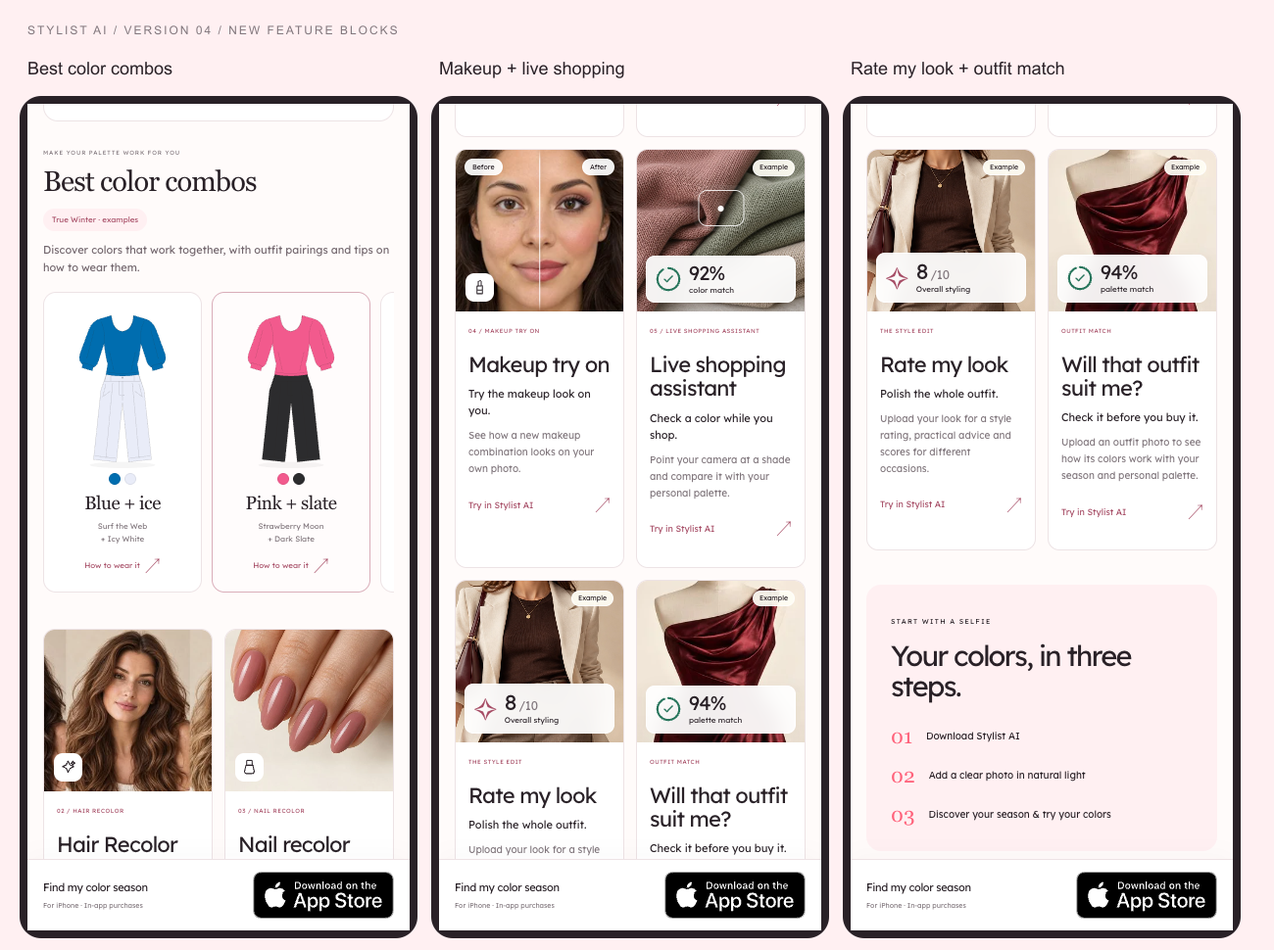
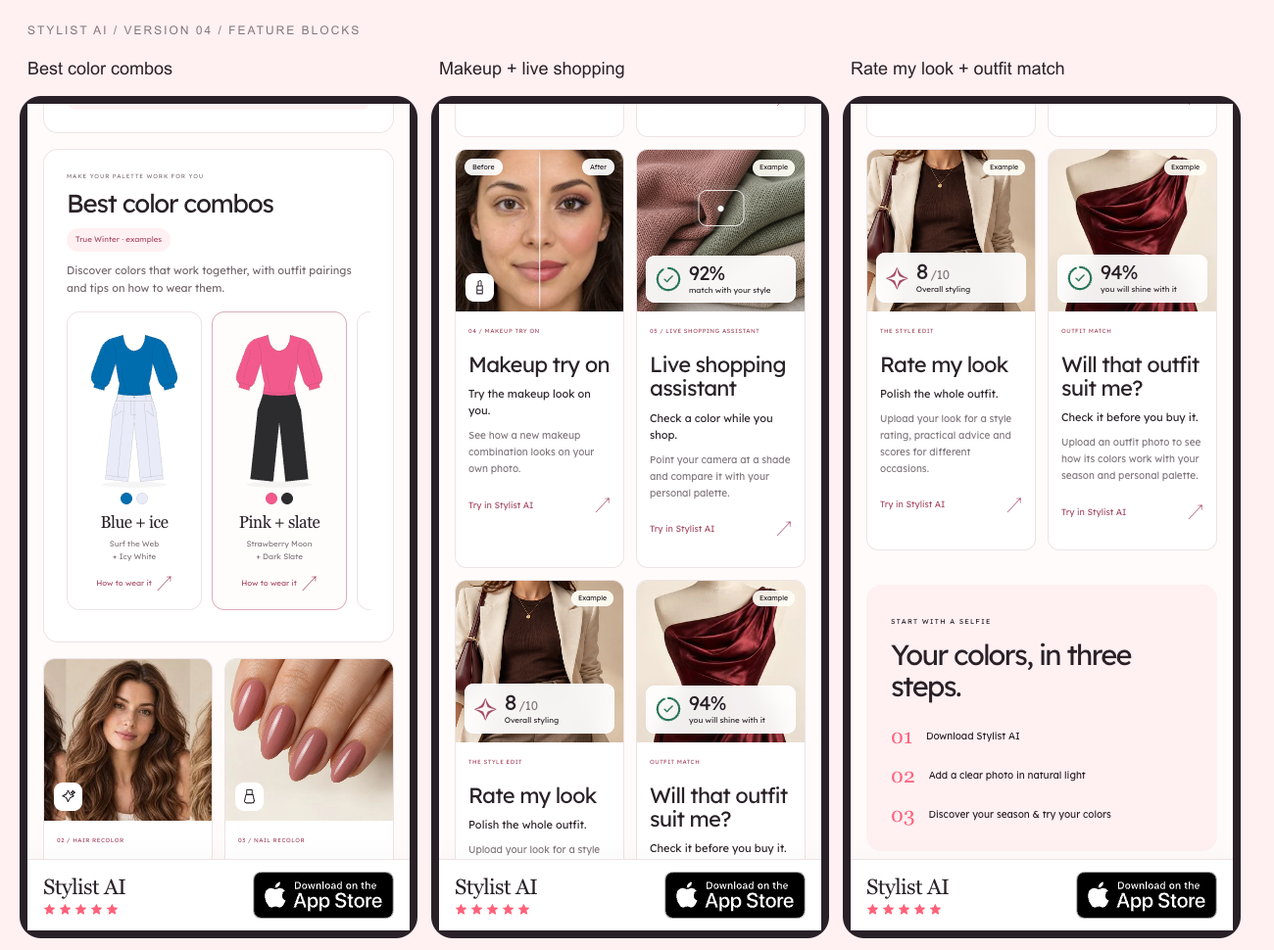
Polish feature framing, captions and the Stylist AI download bar

diff --git a/stylist_ai/landing/v2/04-season-spectrum/index.html b/stylist_ai/landing/v2/04-season-spectrum/index.html
@@ -1,6 +1,6 @@
 <!doctype html><html lang="en"><head>
-<meta charset="utf-8"><meta name="viewport" content="width=device-width,initial-scale=1,viewport-fit=cover"><meta name="theme-color" content="#FFFBFA"><title>Find your color season — Stylist AI</title><meta name="description" content="Discover your color season and palette. Try hair and makeup looks, recolor nails, and take your palette shopping with Stylist AI for iPhone."><meta property="og:title" content="Your season. Your palette. Stylist AI."><meta property="og:description" content="Your Color Analysis, color combos, beauty tools, outfit advice & live shopping. Find your colors with Stylist AI."><meta property="og:type" content="website"><meta property="og:image" content="https://bestme.mobi/stylist_ai/landing/v2/assets/social-spectrum.jpg"><link rel="icon" href="../assets/icon.png"><link rel="stylesheet" href="../styles.css?v=2"><script src="../app.js?v=3" defer></script><link rel="stylesheet" href="./spectrum.css?v=5"></head>
-<body class="spectrum" data-variant="04-season-spectrum" id="top"><a class="skip" href="#main">Skip to content</a><header class="site-header container"><a class="brand" href="#top" aria-label="Stylist AI home"><img src="../assets/icon.png" width="28" height="28" alt=""><span>stylist <b>AI</b></span></a><span class="header-caption">COLOR ANALYSIS FOR iPHONE</span></header><main id="main"><section class="hero container" aria-label="Discover your color season"><div class="hero-intro"><h1>What’s your<br><em>color season?</em></h1><p>AI color analysis. Your season, personal palette, personal shopping advice.</p></div><div class="hero-proof"><div class="result-card"><div class="spectrum-pair"><div class="color-halo"><div class="face-photo"><img class="portrait" src="../assets/winter-model.jpg" width="834" height="1482" alt="Stylist AI ad model with subtle glowing facial landmark dots" fetchpriority="high"><img class="mesh" src="../assets/winter-landmarks.svg" width="834" height="1482" alt="" aria-hidden="true"></div></div><div class="season-result"><p class="micro">EXAMPLE COLOR SEASON</p><strong data-season-result>True Winter</strong><p class="traits"><span>Cool</span><span>Clear</span><span>High contrast</span></p></div></div><div class="palette hero-palette" data-first-palette aria-label="Sample True Winter color palette"><div class="color" style="--color:#F25A8D" title="Pink"><i></i></div><div class="color" style="--color:#9C1F50" title="Berry"><i></i></div><div class="color" style="--color:#7F3C7D" title="Orchid"><i></i></div><div class="color" style="--color:#4E1C60" title="Plum"><i></i></div><div class="color" style="--color:#17A59D" title="Teal"><i></i></div><div class="color" style="--color:#3AB3D1" title="Aqua"><i></i></div><div class="color" style="--color:#3C55A5" title="Cobalt"><i></i></div><div class="color" style="--color:#003A6E" title="Navy"><i></i></div></div><div class="season-tabs" role="group" aria-label="Preview example seasonal palettes"><button type="button" data-season="spring" aria-pressed="false">Spring</button><button type="button" data-season="summer" aria-pressed="false">Summer</button><button type="button" data-season="autumn" aria-pressed="false">Autumn</button><button type="button" data-season="winter" aria-pressed="true">Winter</button></div><span class="sample-disclaimer">Example palette. Find your own colors in the app.</span></div></div></section><nav class="feature-nav container" aria-label="Stylist AI features"><a href="#passport" aria-label="See Your Color Analysis"><svg viewBox="0 0 24 24" fill="none" stroke="currentColor" stroke-width="1.5" stroke-linecap="round" stroke-linejoin="round" aria-hidden="true"><rect x="5" y="3" width="14" height="18" rx="3"/><path d="M9 8h6M9 12h6M9 16h3"/></svg><span>Your Color Analysis</span></a><a href="#try-on" aria-label="See Hair Recolor"><svg viewBox="0 0 24 24" fill="none" stroke="currentColor" stroke-width="1.5" stroke-linecap="round" stroke-linejoin="round" aria-hidden="true"><path d="m12 3 2.6 5.4L20 11l-5.4 2.6L12 19l-2.6-5.4L4 11l5.4-2.6Z"/><path d="m19 3 1 2 2 1-2 1-1 2-1-2-2-1 2-1Z"/></svg><span>Hair Recolor</span></a><a href="#nails" aria-label="See Nail recolor"><svg viewBox="0 0 24 24" fill="none" stroke="currentColor" stroke-width="1.5" stroke-linecap="round" stroke-linejoin="round" aria-hidden="true"><rect x="8" y="2" width="8" height="7" rx="1"/><path d="M7 9h10l2 9a3 3 0 0 1-3 3H8a3 3 0 0 1-3-3Z"/></svg><span>Nail recolor</span></a><a href="#makeup" aria-label="See Makeup try on"><svg viewBox="0 0 24 24" fill="none" stroke="currentColor" stroke-width="1.5" stroke-linecap="round" stroke-linejoin="round" aria-hidden="true"><path d="M8 10h8v11H8zM10 10V4c0-1 4-3 4-1v7M8 16h8"/></svg><span>Makeup try on</span></a><a href="#shopping" aria-label="See Live shopping assistant"><svg viewBox="0 0 24 24" fill="none" stroke="currentColor" stroke-width="1.5" stroke-linecap="round" stroke-linejoin="round" aria-hidden="true"><path d="M5 8h14l1 13H4ZM9 8V6a3 3 0 0 1 6 0v2"/></svg><span>Live shopping assistant</span></a></nav><nav class="feature-shortcuts container" aria-label="More styling tools"><a href="#combos" aria-label="See Color combos"><svg viewBox="0 0 24 24" fill="none" stroke="currentColor" stroke-width="1.4" stroke-linecap="round" stroke-linejoin="round" aria-hidden="true"><rect x="3" y="5" width="8" height="14" rx="2"/><rect x="13" y="5" width="8" height="14" rx="2"/></svg><span>Color combos</span></a><a href="#rate-look" aria-label="See Rate my look"><svg viewBox="0 0 24 24" fill="none" stroke="currentColor" stroke-width="1.4" stroke-linecap="round" stroke-linejoin="round" aria-hidden="true"><path d="m12 3 2.8 5.8 6.4.9-4.6 4.5 1.1 6.4-5.7-3-5.7 3 1.1-6.4-4.6-4.5 6.4-.9Z"/></svg><span>Rate my look</span></a><a href="#outfit-match" aria-label="See Outfit match"><svg viewBox="0 0 24 24" fill="none" stroke="currentColor" stroke-width="1.4" stroke-linecap="round" stroke-linejoin="round" aria-hidden="true"><path d="m8 4 4 2 4-2 6 5-4 4-2-2v10H8V11l-2 2-4-4Z"/></svg><span>Outfit match</span></a></nav><section class="features container" id="features"><div class="section-heading"><span class="micro">YOUR COLORS, IN EVERYDAY LIFE.</span><h2>See what you can do.</h2></div><article id="passport" class="passport-feature" data-feature="passport"><div class="passport-feature-copy"><p class="number">01 / YOUR COLOR ANALYSIS</p><h3>Your Color Analysis</h3><p class="benefit">Your season. Your undertone. Your palette.</p><p>Keep your color profile close, from getting ready to choosing your next outfit.</p><ul><li>Your seasonal color type</li><li>Your personal palette</li><li>Color guidance for your look</li></ul></div><div class="passport-feature-art"><span class="micro">YOUR COLOR ANALYSIS · EXAMPLE</span><strong>True Winter</strong><div class="attribute-row"><span>Cool undertone</span><span>High contrast</span></div><div class="palette " aria-label="Sample True Winter color palette"><div class="color" style="--color:#F25A8D" title="Pink"><i></i><span>Pink</span></div><div class="color" style="--color:#9C1F50" title="Berry"><i></i><span>Berry</span></div><div class="color" style="--color:#7F3C7D" title="Orchid"><i></i><span>Orchid</span></div><div class="color" style="--color:#4E1C60" title="Plum"><i></i><span>Plum</span></div><div class="color" style="--color:#17A59D" title="Teal"><i></i><span>Teal</span></div><div class="color" style="--color:#3AB3D1" title="Aqua"><i></i><span>Aqua</span></div><div class="color" style="--color:#3C55A5" title="Cobalt"><i></i><span>Cobalt</span></div><div class="color" style="--color:#003A6E" title="Navy"><i></i><span>Navy</span></div></div></div></article><section class="combo-section" id="combos" data-feature="combos" aria-labelledby="combo-title"><div class="combo-heading"><div><p class="micro">MAKE YOUR PALETTE WORK FOR YOU</p><h3 id="combo-title">Best color combos</h3></div><span class="combo-season">True Winter · examples</span></div><p class="combo-description">Discover colors that work together, with outfit pairings and tips on how to wear them.</p><div class="combo-grid"><a class="combo-card" href="https://apps.apple.com/app/id6739435502" target="_top" data-download data-placement="combo-1" aria-label="Try Blue + ice and see how to wear it in Stylist AI"><svg viewBox="0 0 180 280" class="combo-garments" aria-hidden="true">
+<meta charset="utf-8"><meta name="viewport" content="width=device-width,initial-scale=1,viewport-fit=cover"><meta name="theme-color" content="#FFFBFA"><title>Find your color season — Stylist AI</title><meta name="description" content="Discover your color season and palette. Try hair and makeup looks, recolor nails, and take your palette shopping with Stylist AI for iPhone."><meta property="og:title" content="Your season. Your palette. Stylist AI."><meta property="og:description" content="Your Color Analysis, color combos, beauty tools, outfit advice & live shopping. Find your colors with Stylist AI."><meta property="og:type" content="website"><meta property="og:image" content="https://bestme.mobi/stylist_ai/landing/v2/assets/social-spectrum.jpg"><link rel="icon" href="../assets/icon.png"><link rel="stylesheet" href="../styles.css?v=2"><script src="../app.js?v=3" defer></script><link rel="stylesheet" href="./spectrum.css?v=6"></head>
+<body class="spectrum" data-variant="04-season-spectrum" id="top"><a class="skip" href="#main">Skip to content</a><header class="site-header container"><a class="brand" href="#top" aria-label="Stylist AI home"><img src="../assets/icon.png" width="28" height="28" alt=""><span>stylist <b>AI</b></span></a><span class="header-caption">COLOR ANALYSIS FOR iPHONE</span></header><main id="main"><section class="hero container" aria-label="Discover your color season"><div class="hero-intro"><h1>What’s your<br><em>color season?</em></h1><p>AI color analysis. Your season, personal palette, personal shopping advice.</p></div><div class="hero-proof"><div class="result-card"><div class="spectrum-pair"><div class="color-halo"><div class="face-photo"><img class="portrait" src="../assets/winter-model.jpg" width="834" height="1482" alt="Stylist AI ad model with subtle glowing facial landmark dots" fetchpriority="high"><img class="mesh" src="../assets/winter-landmarks.svg" width="834" height="1482" alt="" aria-hidden="true"></div></div><div class="season-result"><p class="micro">EXAMPLE COLOR SEASON</p><strong data-season-result>True Winter</strong><p class="traits"><span>Cool</span><span>Clear</span><span>High contrast</span></p></div></div><div class="palette hero-palette" data-first-palette aria-label="Sample True Winter color palette"><div class="color" style="--color:#F25A8D" title="Pink"><i></i></div><div class="color" style="--color:#9C1F50" title="Berry"><i></i></div><div class="color" style="--color:#7F3C7D" title="Orchid"><i></i></div><div class="color" style="--color:#4E1C60" title="Plum"><i></i></div><div class="color" style="--color:#17A59D" title="Teal"><i></i></div><div class="color" style="--color:#3AB3D1" title="Aqua"><i></i></div><div class="color" style="--color:#3C55A5" title="Cobalt"><i></i></div><div class="color" style="--color:#003A6E" title="Navy"><i></i></div></div><div class="season-tabs" role="group" aria-label="Preview example seasonal palettes"><button type="button" data-season="spring" aria-pressed="false">Spring</button><button type="button" data-season="summer" aria-pressed="false">Summer</button><button type="button" data-season="autumn" aria-pressed="false">Autumn</button><button type="button" data-season="winter" aria-pressed="true">Winter</button></div><span class="sample-disclaimer">Example palette. Find your own colors in the app.</span></div></div></section><nav class="feature-nav container" aria-label="Stylist AI features"><a href="#passport" aria-label="See Your Color Analysis"><svg viewBox="0 0 24 24" fill="none" stroke="currentColor" stroke-width="1.5" stroke-linecap="round" stroke-linejoin="round" aria-hidden="true"><rect x="5" y="3" width="14" height="18" rx="3"/><path d="M9 8h6M9 12h6M9 16h3"/></svg><span>Your Color Analysis</span></a><a href="#try-on" aria-label="See Hair Recolor"><svg viewBox="0 0 24 24" fill="none" stroke="currentColor" stroke-width="1.5" stroke-linecap="round" stroke-linejoin="round" aria-hidden="true"><path d="m12 3 2.6 5.4L20 11l-5.4 2.6L12 19l-2.6-5.4L4 11l5.4-2.6Z"/><path d="m19 3 1 2 2 1-2 1-1 2-1-2-2-1 2-1Z"/></svg><span>Hair Recolor</span></a><a href="#nails" aria-label="See Nail recolor"><svg viewBox="0 0 24 24" fill="none" stroke="currentColor" stroke-width="1.5" stroke-linecap="round" stroke-linejoin="round" aria-hidden="true"><rect x="8" y="2" width="8" height="7" rx="1"/><path d="M7 9h10l2 9a3 3 0 0 1-3 3H8a3 3 0 0 1-3-3Z"/></svg><span>Nail recolor</span></a><a href="#makeup" aria-label="See Makeup try on"><svg viewBox="0 0 24 24" fill="none" stroke="currentColor" stroke-width="1.5" stroke-linecap="round" stroke-linejoin="round" aria-hidden="true"><path d="M8 10h8v11H8zM10 10V4c0-1 4-3 4-1v7M8 16h8"/></svg><span>Makeup try on</span></a><a href="#shopping" aria-label="See Live shopping assistant"><svg viewBox="0 0 24 24" fill="none" stroke="currentColor" stroke-width="1.5" stroke-linecap="round" stroke-linejoin="round" aria-hidden="true"><path d="M5 8h14l1 13H4ZM9 8V6a3 3 0 0 1 6 0v2"/></svg><span>Live shopping assistant</span></a></nav><nav class="feature-shortcuts container" aria-label="More styling tools"><a href="#combos" aria-label="See Color combos"><svg viewBox="0 0 24 24" fill="none" stroke="currentColor" stroke-width="1.4" stroke-linecap="round" stroke-linejoin="round" aria-hidden="true"><rect x="3" y="5" width="8" height="14" rx="2"/><rect x="13" y="5" width="8" height="14" rx="2"/></svg><span>Color combos</span></a><a href="#rate-look" aria-label="See Rate my look"><svg viewBox="0 0 24 24" fill="none" stroke="currentColor" stroke-width="1.4" stroke-linecap="round" stroke-linejoin="round" aria-hidden="true"><path d="m12 3 2.8 5.8 6.4.9-4.6 4.5 1.1 6.4-5.7-3-5.7 3 1.1-6.4-4.6-4.5 6.4-.9Z"/></svg><span>Rate my look</span></a><a href="#outfit-match" aria-label="See Outfit match"><svg viewBox="0 0 24 24" fill="none" stroke="currentColor" stroke-width="1.4" stroke-linecap="round" stroke-linejoin="round" aria-hidden="true"><path d="m8 4 4 2 4-2 6 5-4 4-2-2v10H8V11l-2 2-4-4Z"/></svg><span>Outfit match</span></a></nav><section class="features container" id="features"><div class="section-heading"><span class="micro">YOUR COLORS, IN EVERYDAY LIFE.</span><h2>See what you can do.</h2></div><article id="passport" class="passport-feature" data-feature="passport"><div class="passport-feature-copy"><p class="number">01 / YOUR COLOR ANALYSIS</p><h3>Your Color Analysis</h3><p class="benefit">Your season. Your undertone. Your palette.</p><p>Keep your color profile close, from getting ready to choosing your next outfit.</p><ul><li>Your seasonal color type</li><li>Your personal palette</li><li>Color guidance for your look</li></ul></div><div class="passport-feature-art"><span class="micro">YOUR COLOR ANALYSIS · EXAMPLE</span><strong>True Winter</strong><div class="attribute-row"><span>Cool undertone</span><span>High contrast</span></div><div class="palette " aria-label="Sample True Winter color palette"><div class="color" style="--color:#F25A8D" title="Pink"><i></i><span>Pink</span></div><div class="color" style="--color:#9C1F50" title="Berry"><i></i><span>Berry</span></div><div class="color" style="--color:#7F3C7D" title="Orchid"><i></i><span>Orchid</span></div><div class="color" style="--color:#4E1C60" title="Plum"><i></i><span>Plum</span></div><div class="color" style="--color:#17A59D" title="Teal"><i></i><span>Teal</span></div><div class="color" style="--color:#3AB3D1" title="Aqua"><i></i><span>Aqua</span></div><div class="color" style="--color:#3C55A5" title="Cobalt"><i></i><span>Cobalt</span></div><div class="color" style="--color:#003A6E" title="Navy"><i></i><span>Navy</span></div></div></div></article><article class="combo-section combo-feature" id="combos" data-feature="combos" aria-labelledby="combo-title"><div class="combo-heading"><div><p class="micro">MAKE YOUR PALETTE WORK FOR YOU</p><h3 id="combo-title">Best color combos</h3></div><span class="combo-season">True Winter · examples</span></div><p class="combo-description">Discover colors that work together, with outfit pairings and tips on how to wear them.</p><div class="combo-grid"><a class="combo-card" href="https://apps.apple.com/app/id6739435502" target="_top" data-download data-placement="combo-1" aria-label="Try Blue + ice and see how to wear it in Stylist AI"><svg viewBox="0 0 180 280" class="combo-garments" aria-hidden="true">
 <ellipse cx="90" cy="267" rx="53" ry="5" fill="#27231f" opacity=".045"/>
 <g fill="#E9ECF8" stroke="#27231f33" stroke-width=".8"><path d="M64 119H116Q120 131 125 145L137 258L100 262L90 165L80 262L43 258L55 145Q60 131 64 119Z"/><path d="M64 119H116L119 131H61Z"/></g>
 <path d="M63 135L58 156L70 147M117 135L122 156L110 147M90 131V162M74 134L63 256M106 134L117 256M45 252L79 256M101 256L135 252M85 131V153Q89 156 93 153M71 120V130M109 120V130" fill="none" stroke="#27231f2e" stroke-width=".8"/>
@@ -15,4 +15,4 @@
 <g fill="#4E1C60" stroke="#27231f33" stroke-width=".8"><path d="M64 119H116Q120 131 125 145L137 258L100 262L90 165L80 262L43 258L55 145Q60 131 64 119Z"/><path d="M64 119H116L119 131H61Z"/></g>
 <path d="M63 135L58 156L70 147M117 135L122 156L110 147M90 131V162M74 134L63 256M106 134L117 256M45 252L79 256M101 256L135 252M85 131V153Q89 156 93 153M71 120V130M109 120V130" fill="none" stroke="#27231f2e" stroke-width=".8"/>
 <g fill="#D6A8C8" stroke="#27231f33" stroke-width=".8"><path d="M72 24L55 29Q41 32 35 48L21 86Q17 99 27 105L40 109Q48 108 51 98L60 70Q63 94 66 103L63 120Q90 125 117 120L114 103Q117 94 120 70L129 98Q132 108 140 109L153 105Q163 99 159 86L145 48Q139 32 125 29L108 24Q106 48 90 50Q74 48 72 24Z"/><path d="M26 101L43 106L41 114L24 109ZM137 106L154 101L156 109L139 114Z"/></g>
-<path d="M72 24Q74 48 90 50Q106 48 108 24M55 34Q63 48 60 70M125 34Q117 48 120 70M44 48L32 94M136 48L148 94M69 83L76 114M111 83L104 114M65 116Q90 121 115 116" fill="none" stroke="#27231f2e" stroke-width=".8"/><circle cx="90" cy="125" r="1.4" fill="#27231f4d"/></svg><div class="combo-pair" aria-hidden="true"><i style="--shade:#D6A8C8"></i><i style="--shade:#4E1C60"></i></div><h4>Lilac + violet</h4><p class="combo-shades">Lilac Chiffon<br>+ Persian Jewel</p><span class="combo-action">How to wear it <span aria-hidden="true">↗</span></span></a></div></section><div class="feature-grid"><article class="feature-card" id="try-on" data-feature="try-on"><div class="feature-image"><img src="../assets/hair.webp" width="720" height="900" loading="lazy" alt="Hair Recolor example"><span class="feature-image-icon"><svg viewBox="0 0 24 24" fill="none" stroke="currentColor" stroke-width="1.5" stroke-linecap="round" stroke-linejoin="round" aria-hidden="true"><path d="m12 3 2.6 5.4L20 11l-5.4 2.6L12 19l-2.6-5.4L4 11l5.4-2.6Z"/><path d="m19 3 1 2 2 1-2 1-1 2-1-2-2-1 2-1Z"/></svg></span></div><div class="feature-copy"><p class="number">02 / HAIR RECOLOR</p><h3>Hair Recolor</h3><p class="benefit">Find your next hair color.</p><p>Preview a new hair shade on your own photo before you make a change.</p><a href="https://apps.apple.com/app/id6739435502" target="_top" data-download data-placement="try-on">Try in Stylist AI <span aria-hidden="true">↗</span></a></div></article><article class="feature-card" id="nails" data-feature="nails"><div class="feature-image"><img src="../assets/nails.webp" width="720" height="900" loading="lazy" alt="Nail recolor example"><span class="feature-image-icon"><svg viewBox="0 0 24 24" fill="none" stroke="currentColor" stroke-width="1.5" stroke-linecap="round" stroke-linejoin="round" aria-hidden="true"><rect x="8" y="2" width="8" height="7" rx="1"/><path d="M7 9h10l2 9a3 3 0 0 1-3 3H8a3 3 0 0 1-3-3Z"/></svg></span></div><div class="feature-copy"><p class="number">03 / NAIL RECOLOR</p><h3>Nail recolor</h3><p class="benefit">Pick your polish before the salon.</p><p>Preview a new nail color and find your next manicure shade.</p><a href="https://apps.apple.com/app/id6739435502" target="_top" data-download data-placement="nails">Try in Stylist AI <span aria-hidden="true">↗</span></a></div></article><article class="feature-card" id="makeup" data-feature="makeup"><div class="feature-image"><img src="../assets/makeup-try-on.webp" width="720" height="900" loading="lazy" alt="Before and after makeup try on example"><span class="feature-image-icon"><svg viewBox="0 0 24 24" fill="none" stroke="currentColor" stroke-width="1.5" stroke-linecap="round" stroke-linejoin="round" aria-hidden="true"><path d="M8 10h8v11H8zM10 10V4c0-1 4-3 4-1v7M8 16h8"/></svg></span><span class="makeup-divider" aria-hidden="true"></span><span class="makeup-label before">Before</span><span class="makeup-label after">After</span></div><div class="feature-copy"><p class="number">04 / MAKEUP TRY ON</p><h3>Makeup try on</h3><p class="benefit">Try the makeup look on you.</p><p>See how a new makeup combination looks on your own photo.</p><a href="https://apps.apple.com/app/id6739435502" target="_top" data-download data-placement="makeup">Try in Stylist AI <span aria-hidden="true">↗</span></a></div></article><article class="feature-card" id="shopping" data-feature="shopping"><div class="feature-image"><img src="../assets/shopping-fabric.jpg" width="720" height="900" loading="lazy" alt="Live shopping assistant example"><span class="shopping-scan" aria-hidden="true"><i></i></span><span class="art-example">Example</span><div class="match-overlay"><svg viewBox="0 0 40 40" aria-hidden="true"><circle cx="20" cy="20" r="16" fill="none" stroke="#e8efeb" stroke-width="3"/><circle cx="20" cy="20" r="16" fill="none" stroke="#28755c" stroke-width="3" stroke-linecap="round" stroke-dasharray="92 100" pathLength="100" transform="rotate(-90 20 20)"/><path d="m14 20 4 4 8-9" fill="none" stroke="#28755c" stroke-width="2" stroke-linecap="round" stroke-linejoin="round"/></svg><span><strong>92%</strong><small>color match</small></span></div></div><div class="feature-copy"><p class="number">05 / LIVE SHOPPING ASSISTANT</p><h3>Live shopping assistant</h3><p class="benefit">Check a color while you shop.</p><p>Point your camera at a shade and compare it with your personal palette.</p><a href="https://apps.apple.com/app/id6739435502" target="_top" data-download data-placement="shopping">Try in Stylist AI <span aria-hidden="true">↗</span></a></div></article><article class="feature-card" id="rate-look" data-feature="rate-look"><div class="feature-image"><img src="../assets/rate-look.jpg" loading="lazy" alt="Rate my look preview"><span class="art-example">Example</span><div class="look-rating"><span class="rating-star" aria-hidden="true">✧</span><span><strong>8<small>/10</small></strong><small>Overall styling</small></span></div></div><div class="feature-copy"><p class="number">THE STYLE EDIT</p><h3>Rate my look</h3><p class="benefit">Polish the whole outfit.</p><p>Upload your look for a style rating, practical advice and scores for different occasions.</p><a href="https://apps.apple.com/app/id6739435502" target="_top" data-download data-placement="rate-look">Try in Stylist AI <span aria-hidden="true">↗</span></a></div></article><article class="feature-card" id="outfit-match" data-feature="outfit-match"><div class="feature-image"><img src="../assets/outfit.webp" loading="lazy" alt="Will that outfit suit me? preview"><span class="art-example">Example</span><div class="match-overlay"><svg viewBox="0 0 40 40" aria-hidden="true"><circle cx="20" cy="20" r="16" fill="none" stroke="#e8efeb" stroke-width="3"/><circle cx="20" cy="20" r="16" fill="none" stroke="#28755c" stroke-width="3" stroke-linecap="round" stroke-dasharray="94 100" pathLength="100" transform="rotate(-90 20 20)"/><path d="m14 20 4 4 8-9" fill="none" stroke="#28755c" stroke-width="2" stroke-linecap="round" stroke-linejoin="round"/></svg><span><strong>94%</strong><small>palette match</small></span></div></div><div class="feature-copy"><p class="number">OUTFIT MATCH</p><h3>Will that outfit suit me?</h3><p class="benefit">Check it before you buy it.</p><p>Upload an outfit photo to see how its colors work with your season and personal palette.</p><a href="https://apps.apple.com/app/id6739435502" target="_top" data-download data-placement="outfit-match">Try in Stylist AI <span aria-hidden="true">↗</span></a></div></article></div></section><section class="how container"><div><span class="micro">START WITH A SELFIE</span><h2>Your colors, in three steps.</h2></div><ol><li><b>01</b><span>Download Stylist AI</span></li><li><b>02</b><span>Add a clear photo in natural light</span></li><li><b>03</b><span>Discover your season & try your colors</span></li></ol></section><section class="faq container"><h2>A few useful details.</h2><details><summary>Is it free to download?</summary><p>Yes. Stylist AI is free to download, with in-app purchases. Some features require a subscription. Check current pricing and offers in the app.</p></details><details><summary>Is the analysis above my personal result?</summary><p>No. This is an example of Your Color Analysis. Use your own photo in Stylist AI for your personal analysis. The subtle landmark dots on this page use an example portrait.</p></details><details><summary>What photo works best?</summary><p>Use a clear selfie in natural light, with your face visible. Lighting and camera settings can affect your result.</p></details></section><section class="closing container"><p class="micro">YOUR SEASON IS JUST THE START</p><h2>Find your colors.<br>Try them on you.</h2><p>Color analysis, beauty try-on & shopping — in one app.</p></section></main><footer class="container"><a class="brand" href="#top" aria-label="Stylist AI home"><img src="../assets/icon.png" width="28" height="28" alt=""><span>stylist <b>AI</b></span></a><div class="legal-links"><a href="https://bestme.mobi/stylist-ai-privacy-policy.html">Privacy</a><a href="https://bestme.mobi/stylist-ai-terms-of-use.html">Terms</a><a href="https://bestme.mobi/support.html">Support</a></div><p>Example imagery, palettes and scores. Results vary. © Aleksandr Korenev.</p><p>Apple and the Apple logo are trademarks of Apple Inc. App Store is a service mark of Apple Inc.</p></footer><aside class="download-dock" aria-label="Download Stylist AI"><div class="dock-inner"><div class="dock-copy"><strong>Find my color season</strong><span>For iPhone · In-app purchases</span></div><a class="app-store" href="https://apps.apple.com/app/id6739435502" target="_top" data-download data-placement="sticky" aria-label="Download Stylist AI on the App Store"><img src="../assets/app-store.svg" width="150" height="50" alt="Download on the App Store"></a></div></aside></body></html>
+<path d="M72 24Q74 48 90 50Q106 48 108 24M55 34Q63 48 60 70M125 34Q117 48 120 70M44 48L32 94M136 48L148 94M69 83L76 114M111 83L104 114M65 116Q90 121 115 116" fill="none" stroke="#27231f2e" stroke-width=".8"/><circle cx="90" cy="125" r="1.4" fill="#27231f4d"/></svg><div class="combo-pair" aria-hidden="true"><i style="--shade:#D6A8C8"></i><i style="--shade:#4E1C60"></i></div><h4>Lilac + violet</h4><p class="combo-shades">Lilac Chiffon<br>+ Persian Jewel</p><span class="combo-action">How to wear it <span aria-hidden="true">↗</span></span></a></div></article><div class="feature-grid"><article class="feature-card" id="try-on" data-feature="try-on"><div class="feature-image"><img src="../assets/hair.webp" width="720" height="900" loading="lazy" alt="Hair Recolor example"><span class="feature-image-icon"><svg viewBox="0 0 24 24" fill="none" stroke="currentColor" stroke-width="1.5" stroke-linecap="round" stroke-linejoin="round" aria-hidden="true"><path d="m12 3 2.6 5.4L20 11l-5.4 2.6L12 19l-2.6-5.4L4 11l5.4-2.6Z"/><path d="m19 3 1 2 2 1-2 1-1 2-1-2-2-1 2-1Z"/></svg></span></div><div class="feature-copy"><p class="number">02 / HAIR RECOLOR</p><h3>Hair Recolor</h3><p class="benefit">Find your next hair color.</p><p>Preview a new hair shade on your own photo before you make a change.</p><a href="https://apps.apple.com/app/id6739435502" target="_top" data-download data-placement="try-on">Try in Stylist AI <span aria-hidden="true">↗</span></a></div></article><article class="feature-card" id="nails" data-feature="nails"><div class="feature-image"><img src="../assets/nails.webp" width="720" height="900" loading="lazy" alt="Nail recolor example"><span class="feature-image-icon"><svg viewBox="0 0 24 24" fill="none" stroke="currentColor" stroke-width="1.5" stroke-linecap="round" stroke-linejoin="round" aria-hidden="true"><rect x="8" y="2" width="8" height="7" rx="1"/><path d="M7 9h10l2 9a3 3 0 0 1-3 3H8a3 3 0 0 1-3-3Z"/></svg></span></div><div class="feature-copy"><p class="number">03 / NAIL RECOLOR</p><h3>Nail recolor</h3><p class="benefit">Pick your polish before the salon.</p><p>Preview a new nail color and find your next manicure shade.</p><a href="https://apps.apple.com/app/id6739435502" target="_top" data-download data-placement="nails">Try in Stylist AI <span aria-hidden="true">↗</span></a></div></article><article class="feature-card" id="makeup" data-feature="makeup"><div class="feature-image"><img src="../assets/makeup-try-on.webp" width="720" height="900" loading="lazy" alt="Before and after makeup try on example"><span class="feature-image-icon"><svg viewBox="0 0 24 24" fill="none" stroke="currentColor" stroke-width="1.5" stroke-linecap="round" stroke-linejoin="round" aria-hidden="true"><path d="M8 10h8v11H8zM10 10V4c0-1 4-3 4-1v7M8 16h8"/></svg></span><span class="makeup-divider" aria-hidden="true"></span><span class="makeup-label before">Before</span><span class="makeup-label after">After</span></div><div class="feature-copy"><p class="number">04 / MAKEUP TRY ON</p><h3>Makeup try on</h3><p class="benefit">Try the makeup look on you.</p><p>See how a new makeup combination looks on your own photo.</p><a href="https://apps.apple.com/app/id6739435502" target="_top" data-download data-placement="makeup">Try in Stylist AI <span aria-hidden="true">↗</span></a></div></article><article class="feature-card" id="shopping" data-feature="shopping"><div class="feature-image"><img src="../assets/shopping-fabric.jpg" width="720" height="900" loading="lazy" alt="Live shopping assistant example"><span class="shopping-scan" aria-hidden="true"><i></i></span><span class="art-example">Example</span><div class="match-overlay"><svg viewBox="0 0 40 40" aria-hidden="true"><circle cx="20" cy="20" r="16" fill="none" stroke="#e8efeb" stroke-width="3"/><circle cx="20" cy="20" r="16" fill="none" stroke="#28755c" stroke-width="3" stroke-linecap="round" stroke-dasharray="92 100" pathLength="100" transform="rotate(-90 20 20)"/><path d="m14 20 4 4 8-9" fill="none" stroke="#28755c" stroke-width="2" stroke-linecap="round" stroke-linejoin="round"/></svg><span><strong>92%</strong><small>match with your style</small></span></div></div><div class="feature-copy"><p class="number">05 / LIVE SHOPPING ASSISTANT</p><h3>Live shopping assistant</h3><p class="benefit">Check a color while you shop.</p><p>Point your camera at a shade and compare it with your personal palette.</p><a href="https://apps.apple.com/app/id6739435502" target="_top" data-download data-placement="shopping">Try in Stylist AI <span aria-hidden="true">↗</span></a></div></article><article class="feature-card" id="rate-look" data-feature="rate-look"><div class="feature-image"><img src="../assets/rate-look.jpg" loading="lazy" alt="Rate my look preview"><span class="art-example">Example</span><div class="look-rating"><span class="rating-star" aria-hidden="true">✧</span><span><strong>8<small>/10</small></strong><small>Overall styling</small></span></div></div><div class="feature-copy"><p class="number">THE STYLE EDIT</p><h3>Rate my look</h3><p class="benefit">Polish the whole outfit.</p><p>Upload your look for a style rating, practical advice and scores for different occasions.</p><a href="https://apps.apple.com/app/id6739435502" target="_top" data-download data-placement="rate-look">Try in Stylist AI <span aria-hidden="true">↗</span></a></div></article><article class="feature-card" id="outfit-match" data-feature="outfit-match"><div class="feature-image"><img src="../assets/outfit.webp" loading="lazy" alt="Will that outfit suit me? preview"><span class="art-example">Example</span><div class="match-overlay"><svg viewBox="0 0 40 40" aria-hidden="true"><circle cx="20" cy="20" r="16" fill="none" stroke="#e8efeb" stroke-width="3"/><circle cx="20" cy="20" r="16" fill="none" stroke="#28755c" stroke-width="3" stroke-linecap="round" stroke-dasharray="94 100" pathLength="100" transform="rotate(-90 20 20)"/><path d="m14 20 4 4 8-9" fill="none" stroke="#28755c" stroke-width="2" stroke-linecap="round" stroke-linejoin="round"/></svg><span><strong>94%</strong><small>you will shine with it</small></span></div></div><div class="feature-copy"><p class="number">OUTFIT MATCH</p><h3>Will that outfit suit me?</h3><p class="benefit">Check it before you buy it.</p><p>Upload an outfit photo to see how its colors work with your season and personal palette.</p><a href="https://apps.apple.com/app/id6739435502" target="_top" data-download data-placement="outfit-match">Try in Stylist AI <span aria-hidden="true">↗</span></a></div></article></div></section><section class="how container"><div><span class="micro">START WITH A SELFIE</span><h2>Your colors, in three steps.</h2></div><ol><li><b>01</b><span>Download Stylist AI</span></li><li><b>02</b><span>Add a clear photo in natural light</span></li><li><b>03</b><span>Discover your season & try your colors</span></li></ol></section><section class="closing container"><p class="micro">YOUR SEASON IS JUST THE START</p><h2>Find your colors.<br>Try them on you.</h2><p>Color analysis, beauty try-on & shopping — in one app.</p></section></main><footer class="container"><a class="brand" href="#top" aria-label="Stylist AI home"><img src="../assets/icon.png" width="28" height="28" alt=""><span>stylist <b>AI</b></span></a><div class="legal-links"><a href="https://bestme.mobi/stylist-ai-privacy-policy.html">Privacy</a><a href="https://bestme.mobi/stylist-ai-terms-of-use.html">Terms</a><a href="https://bestme.mobi/support.html">Support</a></div><p>Example imagery, palettes and scores. Results vary. © Aleksandr Korenev.</p><p>Apple and the Apple logo are trademarks of Apple Inc. App Store is a service mark of Apple Inc.</p></footer><aside class="download-dock" aria-label="Download Stylist AI"><div class="dock-inner"><div class="dock-copy"><strong>Stylist AI</strong><span class="dock-stars" aria-hidden="true"><svg viewBox="0 0 20 20"><path d="m10 1 2.7 5.7 6.3.9-4.5 4.4 1.1 6.2-5.6-3-5.6 3 1.1-6.2L1 7.6l6.3-.9Z"/></svg><svg viewBox="0 0 20 20"><path d="m10 1 2.7 5.7 6.3.9-4.5 4.4 1.1 6.2-5.6-3-5.6 3 1.1-6.2L1 7.6l6.3-.9Z"/></svg><svg viewBox="0 0 20 20"><path d="m10 1 2.7 5.7 6.3.9-4.5 4.4 1.1 6.2-5.6-3-5.6 3 1.1-6.2L1 7.6l6.3-.9Z"/></svg><svg viewBox="0 0 20 20"><path d="m10 1 2.7 5.7 6.3.9-4.5 4.4 1.1 6.2-5.6-3-5.6 3 1.1-6.2L1 7.6l6.3-.9Z"/></svg><svg viewBox="0 0 20 20"><path d="m10 1 2.7 5.7 6.3.9-4.5 4.4 1.1 6.2-5.6-3-5.6 3 1.1-6.2L1 7.6l6.3-.9Z"/></svg></span></div><a class="app-store" href="https://apps.apple.com/app/id6739435502" target="_top" data-download data-placement="sticky" aria-label="Download Stylist AI on the App Store"><img src="../assets/app-store.svg" width="150" height="50" alt="Download on the App Store"></a></div></aside></body></html>

diff --git a/stylist_ai/landing/v2/04-season-spectrum/spectrum.css b/stylist_ai/landing/v2/04-season-spectrum/spectrum.css
@@ -47,6 +47,9 @@
 .spectrum .closing { background: #fff0f2; color: var(--ink); border: 1px solid var(--line); }
 .spectrum .download-dock { background: #fff; border-color: var(--line); color: var(--ink); box-shadow: 0 -6px 22px #29212705; }
 .spectrum .dock-copy span { color: #81777d; }
+.spectrum .dock-copy strong { font: 22px/1.15 Georgia, serif; letter-spacing: -.5px; }
+.spectrum .dock-copy .dock-stars { display: flex; gap: 3px; color: #ff617a; line-height: 0; }
+.spectrum .dock-stars svg { width: 13px; height: 13px; fill: currentColor; }
 /* Small, direct links keep the new tools discoverable without crowding the hero. */
 .spectrum .feature-shortcuts { display: grid; grid-template-columns: repeat(3, minmax(0, 1fr)); gap: 8px; }
 .spectrum .feature-shortcuts a { display: flex; align-items: center; justify-content: center; gap: 8px; min-height: 44px; font-size: 11px; border-bottom: 1px solid var(--line); }
@@ -70,10 +73,10 @@
 .spectrum .look-rating strong small { font-size: 14px; color: #81777d; margin-left: 2px; }
 .spectrum #rate-look .feature-image img { object-position: 55% center; }
 .spectrum #outfit-match .feature-copy h3 { font-size: 24px; }
-.spectrum .combo-section { margin: 28px 0 32px; scroll-margin-top: 24px; }
+.spectrum .combo-section { margin: 0 0 22px; padding: 32px; background: var(--surface); border: 1px solid var(--line); border-radius: 20px; scroll-margin-top: 24px; }
 .spectrum .combo-heading { display: flex; justify-content: space-between; align-items: end; gap: 20px; }
 .spectrum .combo-heading .micro { color: #81777d; font-size: 8px; }
-.spectrum .combo-heading h3 { font: 35px/1.2 Georgia, serif; letter-spacing: -.9px; margin-top: 9px; }
+.spectrum .combo-heading h3 { font: 32px/1.2 Lexend, sans-serif; letter-spacing: -1.2px; margin-top: 9px; }
 .spectrum .combo-season { background: #fff0f2; color: #a64c65; font-size: 10px; padding: 7px 11px; border-radius: 20px; white-space: nowrap; }
 .spectrum .combo-description { font-size: 12px; color: #71656c; margin: 12px 0 18px; max-width: 620px; }
 .spectrum .combo-grid { display: grid; grid-template-columns: repeat(3, minmax(0, 1fr)); gap: 16px; }
@@ -111,10 +114,10 @@
   .spectrum .look-rating strong small { font-size: 12px; }
   .spectrum .rating-star { font-size: 31px; }
   .spectrum #outfit-match .feature-copy h3 { font-size: 22px; }
-  .spectrum .combo-section { margin: 28px 0; }
+  .spectrum .combo-section { margin: 0 0 16px; padding: 23px; border-radius: 15px; }
   .spectrum .combo-heading { display: block; }
   .spectrum .combo-heading .micro { font-size: 6px; letter-spacing: .9px; }
-  .spectrum .combo-heading h3 { font-size: 29px; margin-top: 7px; }
+  .spectrum .combo-heading h3 { font-size: 26px; margin-top: 7px; }
   .spectrum .combo-season { display: inline-block; margin-top: 10px; font-size: 8px; padding: 5px 9px; }
   .spectrum .combo-description { font-size: 11px; margin: 10px 0 15px; line-height: 1.65; }
   .spectrum .combo-grid { grid-template-columns: none; grid-auto-flow: column; grid-auto-columns: calc((100% - 34px) / 2); gap: 10px; overflow-x: auto; scroll-snap-type: x mandatory; scrollbar-width: thin; scrollbar-color: #e5bbc6 transparent; padding-bottom: 9px; }
@@ -122,7 +125,7 @@
   .spectrum .combo-garments { height: 176px; }
   .spectrum .combo-pair { margin: 0 0 8px; }
   .spectrum .combo-pair i { width: 12px; height: 12px; }
-  .spectrum .combo-card h4 { font-size: 19px; }
+  .spectrum .combo-card h4 { font-size: 17px; }
   .spectrum .combo-shades { font-size: 8px; margin-top: 6px; }
   .spectrum .combo-action { font-size: 8px; gap: 5px; min-height: 34px; }
 }
@@ -135,7 +138,7 @@
   .spectrum .match-overlay strong { font-size: 18px; }
   .spectrum .match-overlay small { font-size: 7px; }
   .spectrum .combo-garments { height: 150px; }
-  .spectrum .combo-card h4 { font-size: 17px; }
+  .spectrum .combo-card h4 { font-size: 16px; }
 }
 @media (max-width: 760px) and (max-height: 700px) {
   .spectrum .hero-intro > p { font-size: 10px; margin-top: 7px; }
